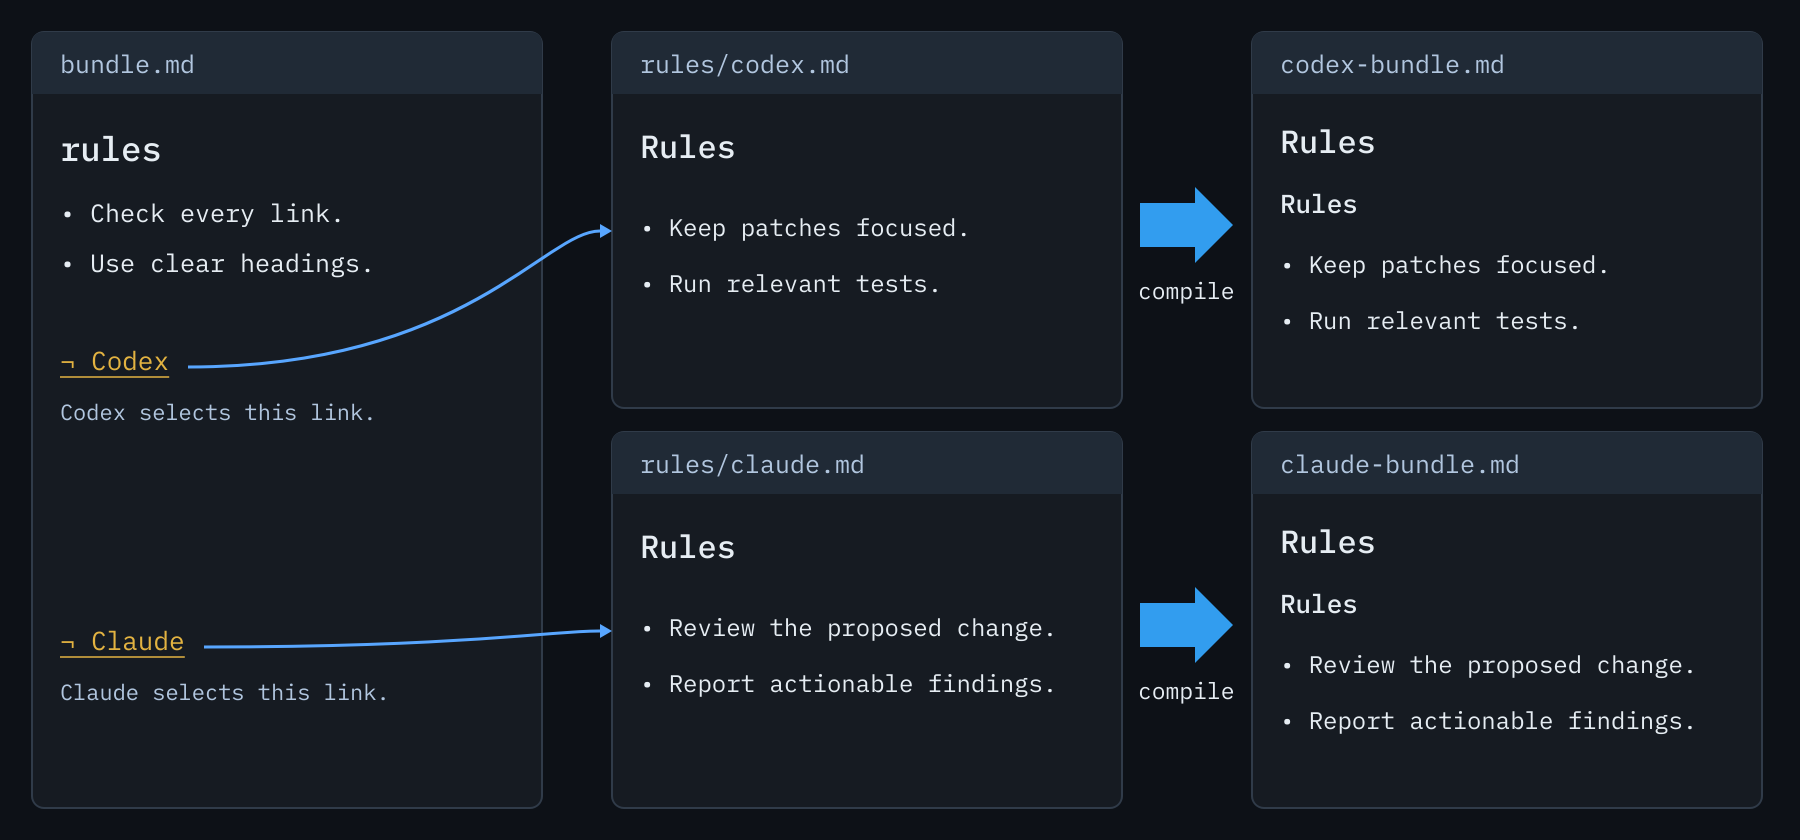
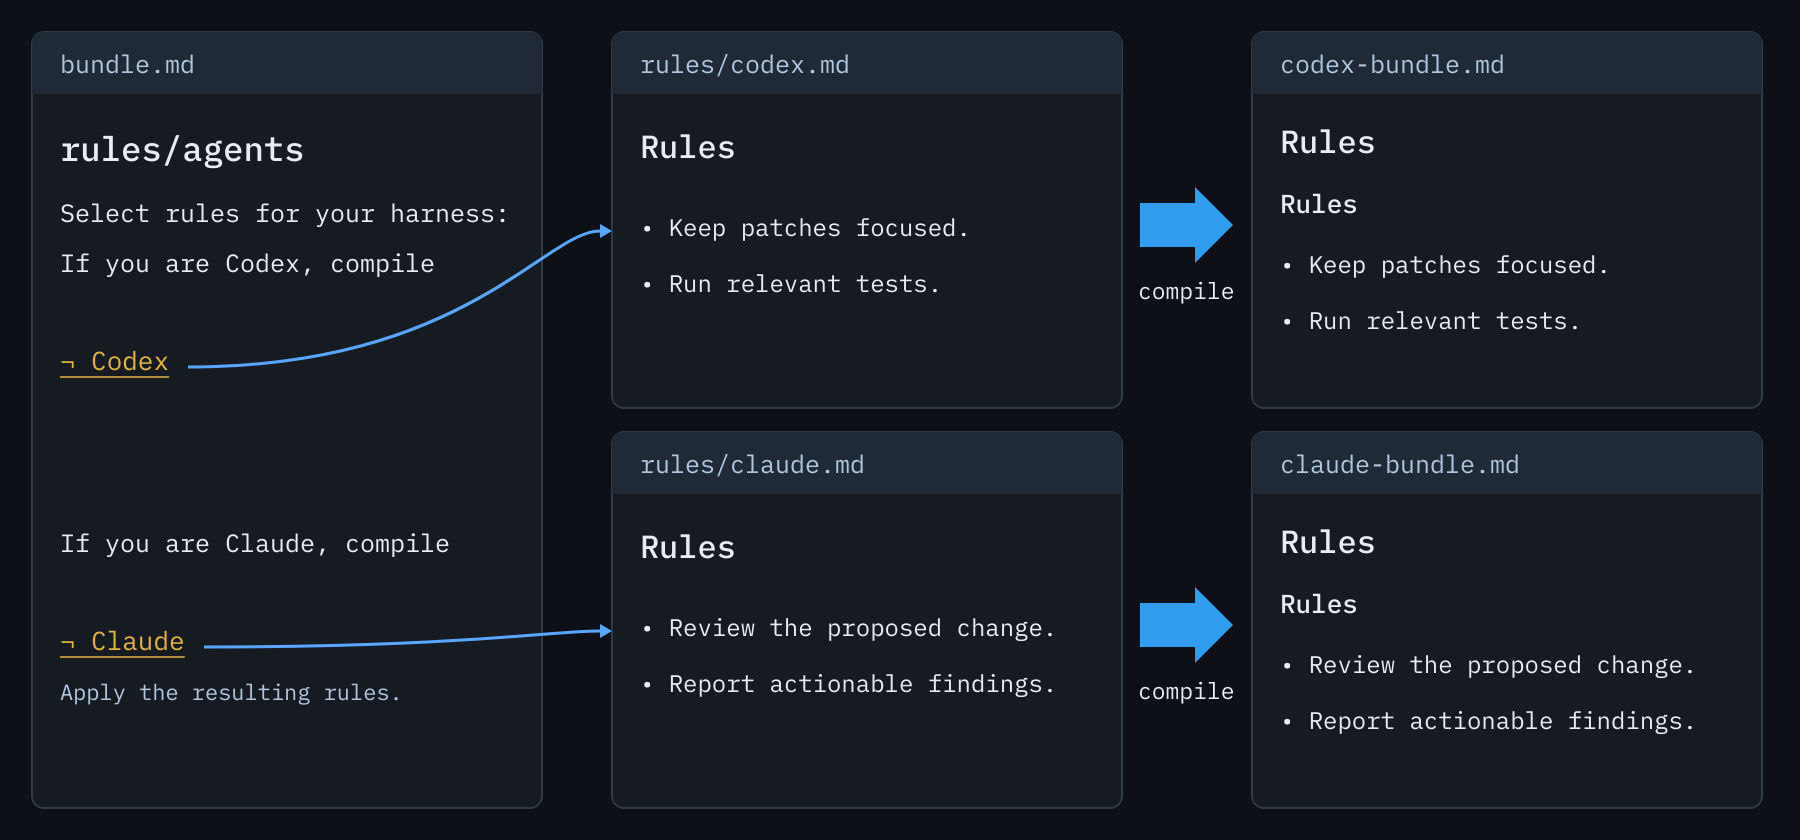
docs: route deferred harness rules through Agents instructions

diff --git a/README.md b/README.md
@@ -29,15 +29,17 @@ Leaving retrieval to the agent costs:
 
 #### Compile shared context
 
+Run these diagram examples from `example/`, using [my-skill](example/my-skill/SKILL.md).
+
 ```bash
 prosiform --root my-skill --output bundle.md procedure.md rules.md
 ```
 
-![SKILL.md links to the selected procedure.md and rules.md. Procedure includes tips.md recursively. Rules retains its rule bullets and deferred links to rules/codex.md and rules/claude.md. Both links remain without their contents. SKILL.md is excluded.](docs/images/compilation.png)
+![SKILL.md selects procedure.md and rules.md. Procedure includes tips.md; Rules includes rules/agents.md. The bundle contains Agents instructions directing each harness to its deferred Codex or Claude rules. SKILL.md and the harness-specific rules are excluded.](docs/images/compilation.png)
 
 #### Compile agent-specific rules
 
-The agent compiles its deferred rules with `--group rules:1`, merging headings at level 1 under a `Rules` group. The caller chooses which agent's rules to load.
+The bundled `rules/agents.md` instructions direct the agent to the deferred link matching its harness identity. It compiles those rules with `--group rules:1`, merging headings at level 1 under a `Rules` group. The caller chooses which agent's rules to load.
 
 ```bash
 # Codex

diff --git a/example/my-skill/rules/agents.md b/example/my-skill/rules/agents.md
@@ -1,0 +1,8 @@
+# Agents
+
+Select rules for your harness:
+
+- If you are Codex, compile [¬ Codex](codex.md).
+- If you are Claude, compile [¬ Claude](claude.md).
+
+Apply the resulting rules.

diff --git a/example/my-skill/SKILL.md b/example/my-skill/SKILL.md
@@ -1,0 +1,7 @@
+# Publish a page
+
+Compile these documents:
+
+[Procedure](procedure.md)
+
+[Rules](rules.md)

diff --git a/example/my-skill/rules.md b/example/my-skill/rules.md
@@ -1,0 +1,6 @@
+# Rules
+
+- Check every link.
+- Use clear headings.
+
+Follow [Agents](rules/agents.md).

diff --git a/example/my-skill/procedure.md b/example/my-skill/procedure.md
@@ -1,0 +1,6 @@
+# Procedure
+
+Read [Tips](tips.md)
+
+1. Write the draft.
+2. Publish the page.

diff --git a/example/my-skill/rules/claude.md b/example/my-skill/rules/claude.md
@@ -1,0 +1,4 @@
+# Rules
+
+- Review the proposed change.
+- Report actionable findings.

diff --git a/example/my-skill/rules/codex.md b/example/my-skill/rules/codex.md
@@ -1,0 +1,4 @@
+# Rules
+
+- Keep patches focused.
+- Run relevant tests.

diff --git a/example/my-skill/tips.md b/example/my-skill/tips.md
@@ -1,0 +1,3 @@
+# Tips
+
+Keep paragraphs short.
